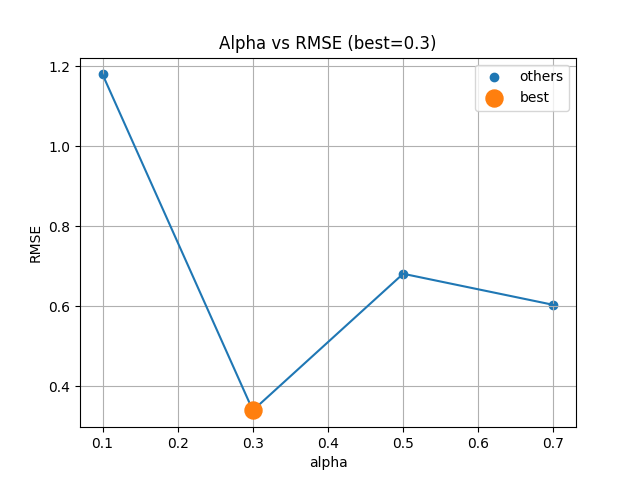
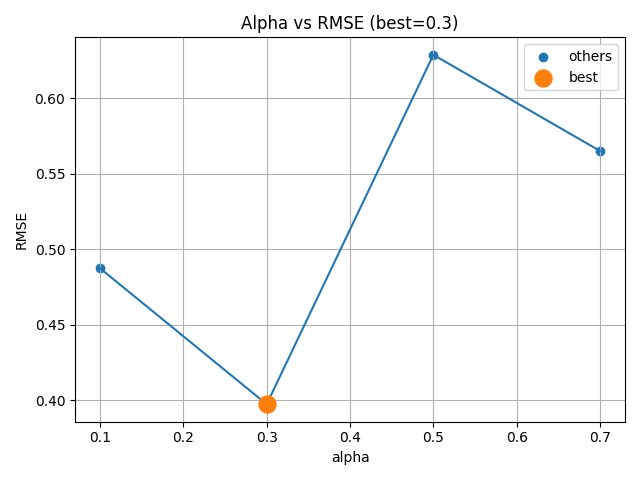
add averaged RMSE evaluation for alpha sweep

diff --git a/scripts/plot_alpha_sweep_avg.py b/scripts/plot_alpha_sweep_avg.py
@@ -1,36 +1,25 @@
 import pandas as pd
 import matplotlib.pyplot as plt
 import numpy as np
-import glob
 import os
 
 BASE_DIR = os.path.dirname(os.path.dirname(os.path.abspath(__file__)))
-data_dir = os.path.join(BASE_DIR, "data")
+data_path = os.path.join(BASE_DIR, "data/alpha_sweep_avg.csv")
 
 # =========================
 # CSV読み込み
 # =========================
-files = sorted(glob.glob(os.path.join(data_dir, "analysis_alpha_*.csv")))
-
-if not files:
-    print("analysis_alpha_*.csv not found")
+if not os.path.exists(data_path):
+    print("alpha_sweep_avg.csv not found")
     exit()
 
-alphas = []
-rmses = []
-pairs = []
-
-for f in files:
-    df = pd.read_csv(f)
-    alpha = float(os.path.basename(f).split("_")[-1].replace(".csv", ""))
-    rmse = df["rmse_filtered"].iloc[0]
-    pairs.append((alpha, rmse))
+df = pd.read_csv(data_path)
 
 # alpha順にソート
-pairs.sort()
+df = df.sort_values("alpha").reset_index(drop=True)
 
-alphas = [p[0] for p in pairs]
-rmses = [p[1] for p in pairs]
+alphas = df["alpha"].tolist()
+rmses = df["avg_rmse"].tolist()
 
 # =========================
 # 最適alpha
@@ -63,14 +52,14 @@ plt.scatter(other_alphas, other_rmses, label="others")
 plt.scatter(best_alpha, best_rmse, s=150, label="best", zorder=3)
 
 plt.xlabel("alpha")
-plt.ylabel("RMSE")
-plt.title(f"Alpha vs RMSE (best={best_alpha})")
+plt.ylabel("Average RMSE")
+plt.title(f"Alpha vs Average RMSE (best={best_alpha})")
 plt.legend()
 plt.grid()
 plt.tight_layout()
 
 # 保存
-output = os.path.join(data_dir, "alpha_vs_rmse.png")
+output = os.path.join(BASE_DIR, "data/alpha_vs_avg_rmse.png")
 plt.savefig(output)
 plt.close()
 

diff --git a/scripts/run_alpha_sweep_avg.py b/scripts/run_alpha_sweep_avg.py
@@ -1,0 +1,39 @@
+import os
+import subprocess
+import pandas as pd
+
+alphas = [0.1, 0.3, 0.5, 0.7]
+runs = 5
+
+results = []
+
+for alpha in alphas:
+    rmses = []
+
+    for i in range(runs):
+        print(f"alpha={alpha}, {i+1}回目")
+
+        subprocess.run([
+            "./build/main",
+            "--duration", "5",
+            "--interval", "300",
+            "--noise", "0.7",
+            "--alpha", str(alpha)
+        ])
+
+        subprocess.run(["python3", "scripts/analyze.py"])
+
+        df = pd.read_csv("data/analysis.csv")
+        rmses.append(df["rmse_filtered"].iloc[0])
+
+    avg_rmse = sum(rmses) / len(rmses)
+
+    results.append({
+        "alpha": alpha,
+        "avg_rmse": avg_rmse
+    })
+
+df_out = pd.DataFrame(results)
+df_out.to_csv("data/alpha_sweep_avg.csv", index=False)
+
+print(df_out)

diff --git a/scripts/run_alpha_sweep.py b/scripts/run_alpha_sweep.py
@@ -5,7 +5,7 @@ import shutil
 alphas = [0.1, 0.3, 0.5, 0.7]
 
 for alpha in alphas:
-    print(f"Running alpha={alpha}")
+    print(f"alpha={alpha}")
 
     subprocess.run([
         "./build/main",
